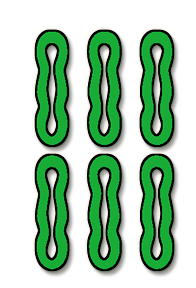
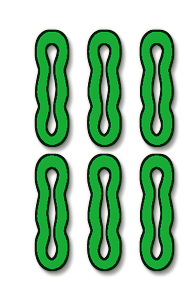
Refine tile symbol ink treatment

diff --git a/tools/generate_cartoon_tile_symbols.py b/tools/generate_cartoon_tile_symbols.py
@@ -16,7 +16,7 @@ from PIL import Image, ImageEnhance, ImageFilter
 ROOT = Path(__file__).resolve().parents[1]
 SOURCE_DIR = ROOT / "res/art/tiles"
 OUT_DIR = ROOT / "res/art/ui_3d_cartoon/tile_symbols"
-CONTACT_SHEET = ROOT / "docs/ui_baseline/mockups/tile_symbols_v1_0_17_contact_sheet.png"
+CONTACT_SHEET = ROOT / "docs/ui_baseline/mockups/tile_symbols_v1_0_21_contact_sheet.png"
 SYMBOL_SIZE = (196, 288)
 SUITS = ("tiao", "tong", "wan")
 SUIT_PARAMS = {
@@ -30,6 +30,8 @@ SUIT_PARAMS = {
 		"highlight": 0.24,
 		"rim": (22, 118, 48, 0),
 		"core": (22, 138, 58, 0),
+		"outline_tint": (22, 60, 42),
+		"outline_strength": 0.42,
 	},
 	"tong": {
 		"thicken": 4,
@@ -41,17 +43,38 @@ SUIT_PARAMS = {
 		"highlight": 0.22,
 		"rim": (26, 74, 138, 0),
 		"core": (20, 116, 72, 0),
+		"outline_tint": (18, 48, 92),
+		"outline_strength": 0.34,
 	},
 	"wan": {
-		"thicken": 6,
-		"alpha": 1.34,
-		"color": 1.10,
-		"contrast": 1.18,
-		"glow": 0.15,
-		"shadow": 0.42,
-		"highlight": 0.22,
+		"thicken": 5,
+		"alpha": 1.30,
+		"color": 1.08,
+		"contrast": 1.12,
+		"glow": 0.13,
+		"shadow": 0.32,
+		"highlight": 0.18,
 		"rim": (138, 26, 42, 0),
 		"core": (26, 92, 138, 0),
+		"outline_tint": (92, 36, 58),
+		"outline_strength": 0.66,
+	},
+}
+TILE_PARAM_OVERRIDES = {
+	("tiao", 1): {
+		"thicken": 3,
+		"alpha": 1.18,
+		"color": 1.08,
+		"contrast": 1.06,
+		"glow": 0.12,
+		"shadow": 0.24,
+		"highlight": 0.16,
+		"pressed": 0.10,
+		"rim_alpha": 0.16,
+		"core_alpha": 0.10,
+		"edge_alpha": 0.10,
+		"outline_tint": (44, 74, 52),
+		"outline_strength": 0.76,
 	},
 }
 
@@ -66,8 +89,30 @@ def _odd_filter_size(value: int) -> int:
 	return size if size % 2 == 1 else size + 1
 
 
-def soften_symbol(source_path: Path, suit: str) -> Image.Image:
-	params = SUIT_PARAMS[suit]
+def _soften_dark_ink(image: Image.Image, tint: tuple[int, int, int], strength: float) -> Image.Image:
+	pixels = image.load()
+	width, height = image.size
+	for y in range(height):
+		for x in range(width):
+			r, g, b, a = pixels[x, y]
+			if a == 0:
+				continue
+			luma = int(r * 0.299 + g * 0.587 + b * 0.114)
+			if luma >= 62:
+				continue
+			weight = strength * (1.0 - float(luma) / 62.0)
+			pixels[x, y] = (
+				int(r * (1.0 - weight) + tint[0] * weight),
+				int(g * (1.0 - weight) + tint[1] * weight),
+				int(b * (1.0 - weight) + tint[2] * weight),
+				a,
+			)
+	return image
+
+
+def soften_symbol(source_path: Path, suit: str, rank: int) -> Image.Image:
+	params = SUIT_PARAMS[suit].copy()
+	params.update(TILE_PARAM_OVERRIDES.get((suit, rank), {}))
 	source = Image.open(source_path).convert("RGBA").resize(SYMBOL_SIZE, Image.Resampling.LANCZOS)
 	r, g, b, alpha = source.split()
 
@@ -78,6 +123,11 @@ def soften_symbol(source_path: Path, suit: str) -> Image.Image:
 	symbol = Image.merge("RGBA", (r, g, b, soft_alpha))
 	symbol = ImageEnhance.Color(symbol).enhance(float(params["color"]))
 	symbol = ImageEnhance.Contrast(symbol).enhance(float(params["contrast"]))
+	symbol = _soften_dark_ink(
+		symbol,
+		tuple(params["outline_tint"]),
+		float(params["outline_strength"]),
+	)
 
 	glow = Image.new("RGBA", SYMBOL_SIZE, (255, 235, 190, 0))
 	glow.putalpha(_mask(soft_alpha, float(params["glow"]), 1.8))
@@ -86,19 +136,19 @@ def soften_symbol(source_path: Path, suit: str) -> Image.Image:
 	contact_shadow.putalpha(_mask(soft_alpha, float(params["shadow"]), 1.35))
 
 	pressed_shadow = Image.new("RGBA", SYMBOL_SIZE, (52, 42, 24, 0))
-	pressed_shadow.putalpha(_mask(expanded_alpha, 0.18, 0.55))
+	pressed_shadow.putalpha(_mask(expanded_alpha, float(params.get("pressed", 0.18)), 0.55))
 
 	rim = Image.new("RGBA", SYMBOL_SIZE, tuple(params["rim"]))
-	rim.putalpha(_mask(expanded_alpha, 0.24, 0.20))
+	rim.putalpha(_mask(expanded_alpha, float(params.get("rim_alpha", 0.24)), 0.20))
 
 	core_rim = Image.new("RGBA", SYMBOL_SIZE, tuple(params["core"]))
-	core_rim.putalpha(_mask(alpha, 0.14, 0.10))
+	core_rim.putalpha(_mask(alpha, float(params.get("core_alpha", 0.14)), 0.10))
 
 	highlight = Image.new("RGBA", SYMBOL_SIZE, (255, 250, 210, 0))
 	highlight.putalpha(_mask(alpha, float(params["highlight"]), 0.28))
 
 	edge_light = Image.new("RGBA", SYMBOL_SIZE, (255, 246, 204, 0))
-	edge_light.putalpha(_mask(expanded_alpha, 0.16, 0.70))
+	edge_light.putalpha(_mask(expanded_alpha, float(params.get("edge_alpha", 0.16)), 0.70))
 
 	composed = Image.new("RGBA", SYMBOL_SIZE, (0, 0, 0, 0))
 	composed.alpha_composite(contact_shadow, (3, 4))
@@ -130,7 +180,7 @@ def main() -> None:
 	OUT_DIR.mkdir(parents=True, exist_ok=True)
 	for suit in SUITS:
 		for rank in range(1, 10):
-			soften_symbol(SOURCE_DIR / f"{suit}_{rank}.png", suit).save(OUT_DIR / f"{suit}_{rank}.png")
+			soften_symbol(SOURCE_DIR / f"{suit}_{rank}.png", suit, rank).save(OUT_DIR / f"{suit}_{rank}.png")
 	build_contact_sheet()
 	print(f"generated {OUT_DIR}")
 	print(f"contact_sheet {CONTACT_SHEET}")

diff --git a/docs/ui_baseline/UX_REFINEMENT_TARGET_AND_PROGRESS.md b/docs/ui_baseline/UX_REFINEMENT_TARGET_AND_PROGRESS.md
@@ -2,7 +2,7 @@
 
 > 状态：执行中  
 > 首版日期：2026-05-11  
-> 当前版本：1.0.20
+> 当前版本：1.0.21
 > 目标界面：主牌桌对局界面  
 > 设计方向：3D 卡通轻奢质感 Mahjong UI  
 > 执行原则：保留已校准布局，逐步资产化和统一视觉系统，每次版本更新后检查目标完成度并继续推进未完成任务。
@@ -35,7 +35,7 @@
 | 布局稳定性 | 现有四家牌区、碰杠、胡牌、弃牌、按钮位置不被破坏，布局合同测试通过 | 85% |
 | 桌面统一性 | 无明显分区底色/边框；桌面有连续绒布纹理、中心光、暗角，但无抢眼装饰线 | 78% |
 | 麻将牌本体 | 厚牌圆角、暖象牙牌面、绿色侧边、统一投影；正背面同一资产体系 | 77% |
-| 正面牌纹 | 条、筒、万、幺鸡等符号与新牌底同风格，线条柔和清晰，不像旧贴图 | 70% |
+| 正面牌纹 | 条、筒、万、幺鸡等符号与新牌底同风格，线条柔和清晰，不像旧贴图 | 76% |
 | 牌背 | 素玉牌背与桌面有足够分离度，无旧圈纹，阴影统一 | 76% |
 | 玩家信息 HUD | 贴边、清晰、弱面板化；字体、头像/定缺、分数、已胡状态统一 | 75% |
 | 操作按钮 | 右上/动作按钮采用同系列 3D 果冻/玉石按钮，触控目标清晰 | 77% |
@@ -43,7 +43,7 @@
 | 可访问性 | 手机横屏玩家名/分数/状态可读；关键文字对比度足够，不仅靠颜色表达状态 | 75% |
 | 启动图一致性 | 整体材质、光照、圆润度、颜色气质接近启动界面 | 66% |
 
-当前综合完成度：约 88%。
+当前综合完成度：约 90%。
 达到 100% 的判定：上表所有维度均不低于 90%，且用户截图评审确认「整体接近预期效果」。
 
 ## 4. 执行步骤
@@ -174,10 +174,11 @@
 | 1.0.18 | `032367a` | 2026-05-11 | 重新调校连续绒布桌面：中心光更暖更柔，边缘暗角更接近启动界面木桌/绿毡气质；减少会被看成划痕的随机纤维线，保留轻微绒布纹理；同步版本号 | `V17 LAYOUT CONTRACT OK`；截图 `docs/ui_baseline/captures/main_scene_v1_0_18_candidate.png`、`docs/ui_baseline/captures/main_scene_v1_0_18_mobile_1365x768.png` | 84% | 继续步骤 4/5/7：HUD/按钮贴图资产化、移动端文字可读性、幺鸡/万字细节继续精修 |
 | 1.0.19 | aefa5c5 | 2026-05-11 | 提升移动端边缘玩家身份 HUD 可读性：侧边身份牌扩大内部可读区，姓名/分数和定缺/报叫状态字号提高，边缘卡片仍保持贴边且不侵入手牌列；同步版本号 | `V17 LAYOUT CONTRACT OK`；截图 `docs/ui_baseline/captures/main_scene_v1_0_19_candidate.png`、`docs/ui_baseline/captures/main_scene_v1_0_19_mobile_1365x768.png` | 86% | 继续步骤 4/5/7：HUD 贴图资产化、右上/动作按钮图标化、幺鸡和万字细节最终修正 |
 | 1.0.20 | 068119d | 2026-05-11 | 为右上按钮、浮动小圆按钮和底部动作按钮补充同源程序化玉石高光层，按钮 pressed/hover/disabled 状态继续保留，整体更接近 3D 卡通轻奢控件体系；同步版本号 | `V17 LAYOUT CONTRACT OK`；截图 `docs/ui_baseline/captures/main_scene_v1_0_20_candidate.png`、`docs/ui_baseline/captures/main_scene_v1_0_20_mobile_1365x768.png` | 88% | 继续步骤 2/4/7：幺鸡和万字细节最终修正、HUD 状态标记统一、启动图一致性最后拉齐 |
+| 1.0.21 | 本次提交 | 2026-05-11 | 针对幺鸡和万字做牌纹生成细修：新增单牌覆盖参数，降低幺鸡贴纸黑边感；万字整体减厚、减影并将硬黑描边转为深色彩墨结构线；新增 `tile_symbols_v1_0_21_contact_sheet.png`；同步版本号 | `V17 LAYOUT CONTRACT OK`；截图 `docs/ui_baseline/captures/main_scene_v1_0_21_candidate.png`、`docs/ui_baseline/captures/main_scene_v1_0_21_mobile_1365x768.png`；牌纹对照 `docs/ui_baseline/mockups/tile_symbols_v1_0_21_contact_sheet.png` | 90% | 继续步骤 4/7：HUD 状态标记统一、移动端最终检查、启动图一致性最后拉齐 |
 
 ## 6. 未完成任务池
 
-- 继续精修整套正面牌纹资源；1.0.17 已整体提升 27 张条/筒/万牌纹厚度、对比度和远景可读性，下一轮重点做幺鸡细节手工优化、万字红蓝结构再精修，以及避免描边过硬。
+- 继续精修整套正面牌纹资源；1.0.21 已给幺鸡与万字增加单牌覆盖和暗线染色，下一轮只做截图评审级微调，避免继续过度加工。
 - 继续将本家手牌从“白片感”提升为明显厚玉牌；1.0.16 已补牌面/背面程序级内凹边缘和边角高光，下一轮需进一步资产化牌面厚度与底部接触阴影。
 - 统一桌面小牌、碰杠牌、胡牌、弃牌的材质比例；1.0.16 已让小牌和大牌共享内凹高光逻辑，下一轮继续检查明度、厚度和远景可读性。
 - 继续弱化玩家信息框旧式大面板感；1.0.19 已提升移动端侧边身份 HUD 字号和可读区，1.0.20 已让按钮系统共享同源高光层，下一轮重点做 HUD 状态标记统一。
